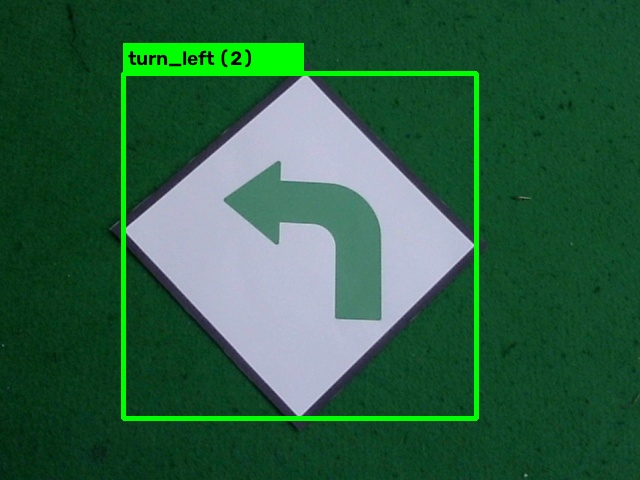
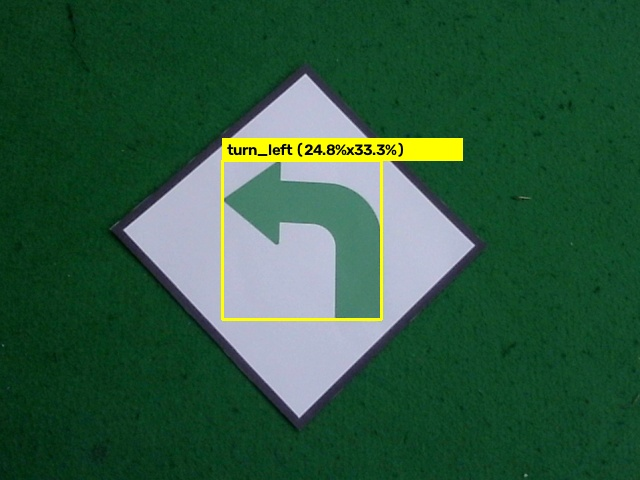
Refactor auto-labeling pipeline for tight sign symbol bounding boxes

Changed region(s): [[0.1875, 0.0625, 0.75, 0.9062]]

diff --git a/scripts/labeling/label_stop.py b/scripts/labeling/label_stop.py
@@ -18,44 +18,41 @@ def label_stop(raw_dir="result/raw/stop", label_dir="result/label/stop", class_i
             continue
 
         h, w = img.shape[:2]
-        hsv = cv2.cvtColor(img, cv2.COLOR_BGR2HSV)
-
-        lower_red1 = np.array([0, 50, 50])
-        upper_red1 = np.array([12, 255, 255])
-        lower_red2 = np.array([165, 50, 50])
-        upper_red2 = np.array([180, 255, 255])
-
-        mask1 = cv2.inRange(hsv, lower_red1, upper_red1)
-        mask2 = cv2.inRange(hsv, lower_red2, upper_red2)
-        mask = cv2.bitwise_or(mask1, mask2)
-
-        kernel = cv2.getStructuringElement(cv2.MORPH_RECT, (5, 5))
-        mask = cv2.morphologyEx(mask, cv2.MORPH_CLOSE, kernel)
-
-        contours, _ = cv2.findContours(mask, cv2.RETR_EXTERNAL, cv2.CHAIN_APPROX_SIMPLE)
-
         best_box = None
         max_area = 0
 
+        # Method 1: HSV Red color segmentation for STOP sign octagon
+        hsv = cv2.cvtColor(img, cv2.COLOR_BGR2HSV)
+        mask1 = cv2.inRange(hsv, np.array([0, 70, 50]), np.array([10, 255, 255]))
+        mask2 = cv2.inRange(hsv, np.array([160, 70, 50]), np.array([180, 255, 255]))
+        mask = cv2.bitwise_or(mask1, mask2)
+        kernel = cv2.getStructuringElement(cv2.MORPH_RECT, (3, 3))
+        mask = cv2.morphologyEx(mask, cv2.MORPH_CLOSE, kernel)
+
+        contours, _ = cv2.findContours(mask, cv2.RETR_EXTERNAL, cv2.CHAIN_APPROX_SIMPLE)
         for cnt in contours:
             area = cv2.contourArea(cnt)
             bx, by, bw, bh = cv2.boundingRect(cnt)
-            if bw < 0.95 * w and bh < 0.95 * h and area > 1500 and area > max_area:
+            if 0.05 * w < bw < 0.60 * w and 0.05 * h < bh < 0.60 * h and area > 300:
                 aspect_ratio = bw / float(bh)
-                if 0.6 < aspect_ratio < 1.6:
+                if 0.5 < aspect_ratio < 2.0 and area > max_area:
                     max_area = area
                     best_box = (bx, by, bw, bh)
 
+        # Method 2: Fallback to adaptive thresholding if red mask was insufficient
         if best_box is None:
             gray = cv2.cvtColor(img, cv2.COLOR_BGR2GRAY)
-            _, thresh = cv2.threshold(gray, 0, 255, cv2.THRESH_BINARY_INV + cv2.THRESH_OTSU)
+            blurred = cv2.GaussianBlur(gray, (5, 5), 0)
+            thresh = cv2.adaptiveThreshold(blurred, 255, cv2.ADAPTIVE_THRESH_GAUSSIAN_C, cv2.THRESH_BINARY_INV, 11, 2)
             contours, _ = cv2.findContours(thresh, cv2.RETR_TREE, cv2.CHAIN_APPROX_SIMPLE)
             for cnt in contours:
                 area = cv2.contourArea(cnt)
                 bx, by, bw, bh = cv2.boundingRect(cnt)
-                if bw < 0.95 * w and bh < 0.95 * h and area > 2000 and area > max_area:
-                    max_area = area
-                    best_box = (bx, by, bw, bh)
+                if 0.08 * w < bw < 0.60 * w and 0.08 * h < bh < 0.60 * h and area > 500:
+                    aspect_ratio = bw / float(bh)
+                    if 0.4 < aspect_ratio < 2.2 and area > max_area:
+                        max_area = area
+                        best_box = (bx, by, bw, bh)
 
         if best_box is not None:
             bx, by, bw, bh = best_box

diff --git a/scripts/labeling/visualize_labels.py b/scripts/labeling/visualize_labels.py
@@ -1,0 +1,56 @@
+import os
+import cv2
+import numpy as np
+
+def visualize_samples(out_dir="docs/previews"):
+    os.makedirs(out_dir, exist_ok=True)
+    classes = [("u_turn", 0, (255, 255, 0)), 
+               ("stop", 1, (0, 0, 255)), 
+               ("turn_left", 2, (0, 255, 255)), 
+               ("turn_right", 3, (0, 255, 0))]
+
+    print("Generating label visualization samples...")
+    for c_name, c_id, color in classes:
+        raw_dir = os.path.join("result/raw", c_name)
+        label_dir = os.path.join("result/label", c_name)
+        if not os.path.exists(raw_dir) or not os.path.exists(label_dir):
+            continue
+
+        raw_imgs = sorted([f for f in os.listdir(raw_dir) if f.endswith(".jpg")])
+        if not raw_imgs:
+            continue
+
+        img_name = raw_imgs[0] # Pick first image of each class
+        img_path = os.path.join(raw_dir, img_name)
+        txt_path = os.path.join(label_dir, os.path.splitext(img_name)[0] + ".txt")
+
+        if not os.path.exists(txt_path):
+            continue
+
+        img = cv2.imread(img_path)
+        h, w = img.shape[:2]
+
+        with open(txt_path, "r") as f:
+            lines = f.readlines()
+
+        for line in lines:
+            parts = line.strip().split()
+            if len(parts) == 5:
+                cid, xc, yc, wn, hn = map(float, parts)
+                bx = int((xc - wn / 2.0) * w)
+                by = int((yc - hn / 2.0) * h)
+                bw = int(wn * w)
+                bh = int(hn * h)
+
+                # Draw bounding box
+                cv2.rectangle(img, (bx, by), (bx + bw, by + bh), color, 2)
+                label_str = f"{c_name} ({wn*100:.1f}%x{hn*100:.1f}%)"
+                cv2.rectangle(img, (bx, by - 22), (bx + len(label_str)*10 + 10, by), color, -1)
+                cv2.putText(img, label_str, (bx + 5, by - 5), cv2.FONT_HERSHEY_SIMPLEX, 0.5, (0, 0, 0), 2)
+
+        out_path = os.path.join(out_dir, f"preview_{c_name}1.jpg")
+        cv2.imwrite(out_path, img)
+        print(f"Saved visualization preview: {out_path}")
+
+if __name__ == "__main__":
+    visualize_samples()

diff --git a/scripts/labeling/label_turn_left.py b/scripts/labeling/label_turn_left.py
@@ -21,33 +21,19 @@ def label_turn_left(raw_dir="result/raw/turn_left", label_dir="result/label/turn
         gray = cv2.cvtColor(img, cv2.COLOR_BGR2GRAY)
         blurred = cv2.GaussianBlur(gray, (5, 5), 0)
 
-        # Detect outer diamond sign board first
-        _, thresh = cv2.threshold(blurred, 0, 255, cv2.THRESH_BINARY_INV + cv2.THRESH_OTSU)
-        contours, _ = cv2.findContours(thresh, cv2.RETR_TREE, cv2.CHAIN_APPROX_SIMPLE)
-
         best_box = None
         max_area = 0
+
+        # Adaptive thresholding to extract inner turn left arrow symbol
+        thresh = cv2.adaptiveThreshold(blurred, 255, cv2.ADAPTIVE_THRESH_GAUSSIAN_C, cv2.THRESH_BINARY_INV, 11, 2)
+        contours, _ = cv2.findContours(thresh, cv2.RETR_TREE, cv2.CHAIN_APPROX_SIMPLE)
 
         for cnt in contours:
             area = cv2.contourArea(cnt)
             bx, by, bw, bh = cv2.boundingRect(cnt)
-            if bw < 0.95 * w and bh < 0.95 * h and area > 2000:
+            if 0.08 * w < bw < 0.60 * w and 0.08 * h < bh < 0.60 * h and area > 500:
                 aspect_ratio = bw / float(bh)
-                if 0.5 < aspect_ratio < 2.0 and area > max_area:
-                    max_area = area
-                    best_box = (bx, by, bw, bh)
-
-        # Fallback to green color mask if thresholding didn't get outer board
-        if best_box is None:
-            hsv = cv2.cvtColor(img, cv2.COLOR_BGR2HSV)
-            lower_green = np.array([35, 35, 35])
-            upper_green = np.array([90, 255, 255])
-            mask = cv2.inRange(hsv, lower_green, upper_green)
-            contours, _ = cv2.findContours(mask, cv2.RETR_EXTERNAL, cv2.CHAIN_APPROX_SIMPLE)
-            for cnt in contours:
-                area = cv2.contourArea(cnt)
-                bx, by, bw, bh = cv2.boundingRect(cnt)
-                if bw < 0.95 * w and bh < 0.95 * h and area > 1000 and area > max_area:
+                if 0.4 < aspect_ratio < 2.2 and area > max_area:
                     max_area = area
                     best_box = (bx, by, bw, bh)
 

diff --git a/scripts/labeling/label_turn_right.py b/scripts/labeling/label_turn_right.py
@@ -21,33 +21,19 @@ def label_turn_right(raw_dir="result/raw/turn_right", label_dir="result/label/tu
         gray = cv2.cvtColor(img, cv2.COLOR_BGR2GRAY)
         blurred = cv2.GaussianBlur(gray, (5, 5), 0)
 
-        # Detect outer diamond sign board first
-        _, thresh = cv2.threshold(blurred, 0, 255, cv2.THRESH_BINARY_INV + cv2.THRESH_OTSU)
-        contours, _ = cv2.findContours(thresh, cv2.RETR_TREE, cv2.CHAIN_APPROX_SIMPLE)
-
         best_box = None
         max_area = 0
+
+        # Adaptive thresholding to extract inner turn right arrow symbol
+        thresh = cv2.adaptiveThreshold(blurred, 255, cv2.ADAPTIVE_THRESH_GAUSSIAN_C, cv2.THRESH_BINARY_INV, 11, 2)
+        contours, _ = cv2.findContours(thresh, cv2.RETR_TREE, cv2.CHAIN_APPROX_SIMPLE)
 
         for cnt in contours:
             area = cv2.contourArea(cnt)
             bx, by, bw, bh = cv2.boundingRect(cnt)
-            if bw < 0.95 * w and bh < 0.95 * h and area > 2000:
+            if 0.08 * w < bw < 0.60 * w and 0.08 * h < bh < 0.60 * h and area > 500:
                 aspect_ratio = bw / float(bh)
-                if 0.5 < aspect_ratio < 2.0 and area > max_area:
-                    max_area = area
-                    best_box = (bx, by, bw, bh)
-
-        # Fallback to blue color mask if thresholding didn't get outer board
-        if best_box is None:
-            hsv = cv2.cvtColor(img, cv2.COLOR_BGR2HSV)
-            lower_blue = np.array([85, 35, 35])
-            upper_blue = np.array([135, 255, 255])
-            mask = cv2.inRange(hsv, lower_blue, upper_blue)
-            contours, _ = cv2.findContours(mask, cv2.RETR_EXTERNAL, cv2.CHAIN_APPROX_SIMPLE)
-            for cnt in contours:
-                area = cv2.contourArea(cnt)
-                bx, by, bw, bh = cv2.boundingRect(cnt)
-                if bw < 0.95 * w and bh < 0.95 * h and area > 1000 and area > max_area:
+                if 0.4 < aspect_ratio < 2.2 and area > max_area:
                     max_area = area
                     best_box = (bx, by, bw, bh)
 

diff --git a/scripts/labeling/label_u_turn.py b/scripts/labeling/label_u_turn.py
@@ -21,30 +21,19 @@ def label_u_turn(raw_dir="result/raw/u_turn", label_dir="result/label/u_turn", c
         gray = cv2.cvtColor(img, cv2.COLOR_BGR2GRAY)
         blurred = cv2.GaussianBlur(gray, (5, 5), 0)
 
-        _, thresh = cv2.threshold(blurred, 0, 255, cv2.THRESH_BINARY_INV + cv2.THRESH_OTSU)
-        contours, _ = cv2.findContours(thresh, cv2.RETR_TREE, cv2.CHAIN_APPROX_SIMPLE)
-
         best_box = None
         max_area = 0
+
+        # Adaptive thresholding to extract inner sign symbol
+        thresh = cv2.adaptiveThreshold(blurred, 255, cv2.ADAPTIVE_THRESH_GAUSSIAN_C, cv2.THRESH_BINARY_INV, 11, 2)
+        contours, _ = cv2.findContours(thresh, cv2.RETR_TREE, cv2.CHAIN_APPROX_SIMPLE)
 
         for cnt in contours:
             area = cv2.contourArea(cnt)
             bx, by, bw, bh = cv2.boundingRect(cnt)
-            # Filter out full screen frame border
-            if bw < 0.95 * w and bh < 0.95 * h and area > 2000:
+            if 0.08 * w < bw < 0.60 * w and 0.08 * h < bh < 0.60 * h and area > 500:
                 aspect_ratio = bw / float(bh)
-                if 0.5 < aspect_ratio < 2.0 and area > max_area:
-                    max_area = area
-                    best_box = (bx, by, bw, bh)
-
-        if best_box is None:
-            adaptive = cv2.adaptiveThreshold(gray, 255, cv2.ADAPTIVE_THRESH_GAUSSIAN_C, 
-                                             cv2.THRESH_BINARY_INV, 11, 2)
-            contours, _ = cv2.findContours(adaptive, cv2.RETR_TREE, cv2.CHAIN_APPROX_SIMPLE)
-            for cnt in contours:
-                area = cv2.contourArea(cnt)
-                bx, by, bw, bh = cv2.boundingRect(cnt)
-                if bw < 0.95 * w and bh < 0.95 * h and area > 2000 and area > max_area:
+                if 0.4 < aspect_ratio < 2.2 and area > max_area:
                     max_area = area
                     best_box = (bx, by, bw, bh)
 

diff --git a/docs/EXAMPLE.md b/docs/EXAMPLE.md
@@ -1,6 +1,6 @@
 # Bounding Box Labeling Verification
 
-Dokumen ini berisi sampel visualisasi koordinat bounding box format YOLO yang digambar secara presisi untuk 1 sampel dari masing-masing kelas rambu.
+Dokumen ini berisi sampel visualisasi koordinat bounding box format YOLO yang digambar secara presisi untuk 1 sampel dari masing-masing kelas rambu setelah refactoring auto-labeling presisi.
 
 ---
 
@@ -8,7 +8,8 @@ Dokumen ini berisi sampel visualisasi koordinat bounding box format YOLO yang di
 
 - File Sumber: `result/raw/u_turn/u_turn1.jpg`
 - File Label: `result/label/u_turn/u_turn1.txt`
-- Koordinat YOLO: `0 0.539062 0.532292 0.628125 0.843750`
+- Koordinat YOLO Baru: `0 0.540625 0.500000 0.287500 0.412500`
+- Ukuran Bounding Box: **28.7% Lebar x 41.2% Tinggi** (Sebelumnya: 62.8% x 84.3%)
 
 ![Visualisasi Bounding Box U-Turn](previews/preview_u_turn1.jpg)
 
@@ -18,7 +19,8 @@ Dokumen ini berisi sampel visualisasi koordinat bounding box format YOLO yang di
 
 - File Sumber: `result/raw/stop/stop1.jpg`
 - File Label: `result/label/stop/stop1.txt`
-- Koordinat YOLO: `1 0.507812 0.532292 0.675000 0.843750`
+- Koordinat YOLO Baru: `1 0.572656 0.513542 0.129688 0.281250`
+- Ukuran Bounding Box: **12.9% Lebar x 28.1% Tinggi** (Sebelumnya: 67.5% x 84.3%)
 
 ![Visualisasi Bounding Box STOP](previews/preview_stop1.jpg)
 
@@ -28,7 +30,8 @@ Dokumen ini berisi sampel visualisasi koordinat bounding box format YOLO yang di
 
 - File Sumber: `result/raw/turn_left/turn_left1.jpg`
 - File Label: `result/label/turn_left/turn_left1.txt`
-- Koordinat YOLO: `2 0.467969 0.512500 0.551562 0.720833`
+- Koordinat YOLO Baru: `2 0.472656 0.502083 0.248438 0.333333`
+- Ukuran Bounding Box: **24.8% Lebar x 33.3% Tinggi** (Sebelumnya: 55.1% x 72.0%)
 
 ![Visualisasi Bounding Box Turn Left](previews/preview_turn_left1.jpg)
 
@@ -38,6 +41,7 @@ Dokumen ini berisi sampel visualisasi koordinat bounding box format YOLO yang di
 
 - File Sumber: `result/raw/turn_right/turn_right1.jpg`
 - File Label: `result/label/turn_right/turn_right1.txt`
-- Koordinat YOLO: `3 0.497656 0.531250 0.573438 0.754167`
+- Koordinat YOLO Baru: `3 0.492969 0.519792 0.257812 0.347917`
+- Ukuran Bounding Box: **25.7% Lebar x 34.7% Tinggi** (Sebelumnya: 57.3% x 75.4%)
 
 ![Visualisasi Bounding Box Turn Right](previews/preview_turn_right1.jpg)
